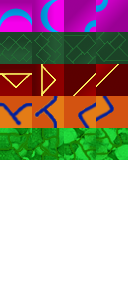
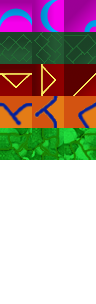
force unique components, fix border

Changed region(s): [[0.0, 0.0, 1.0, 0.5329], [0.0, 0.0296, 0.125, 0.0888]]

diff --git a/src/Level.cpp b/src/Level.cpp
@@ -85,12 +85,15 @@ void Level::_loadTiles() {
 	bgTiles[TILE_UPPER_RIGHT].setTexture(*borderTexture);
 	bgTiles[TILE_UPPER_RIGHT].setTextureRect(sf::IntRect(2 * TILE_SIZE + TILE_SIZE, b, -TILE_SIZE, TILE_SIZE));
 
+	// TILE_UPPER_LEFT x-mirrored and y-mirrored
 	bgTiles[TILE_LOWER_RIGHT].setTexture(*borderTexture);
-	bgTiles[TILE_LOWER_RIGHT].setTextureRect(sf::IntRect(3 * TILE_SIZE, b, TILE_SIZE, TILE_SIZE));
+	bgTiles[TILE_LOWER_RIGHT].setTextureRect(sf::IntRect(
+				2 * TILE_SIZE + TILE_SIZE, 
+				b + TILE_SIZE, -TILE_SIZE, -TILE_SIZE));
 
-	// TILE_LOWER_RIGHT x-mirrored
+	// TILE_UPPER_LEFT y-mirrored
 	bgTiles[TILE_LOWER_LEFT].setTexture(*borderTexture);
-	bgTiles[TILE_LOWER_LEFT].setTextureRect(sf::IntRect(3 * TILE_SIZE + TILE_SIZE, b, -TILE_SIZE, TILE_SIZE));
+	bgTiles[TILE_LOWER_LEFT].setTextureRect(sf::IntRect(2 * TILE_SIZE, b + TILE_SIZE, TILE_SIZE, -TILE_SIZE));
 
 	// Set angles' position once and for all
 	bgTiles[TILE_REGULAR].setPosition(TILE_SIZE, TILE_SIZE);

diff --git a/src/Enemy.cpp b/src/Enemy.cpp
@@ -33,13 +33,11 @@ Enemy::Enemy(sf::Vector2f pos, unsigned short id, float speed, const Game::Attac
 	dashClock = addComponent(new Game::Clock(this));
 	alienSprite = addComponent(new Game::AlienSprite(this));
 	addComponent(new Game::Scored(this, id * 100));
-	addComponent(new Game::Shooting(this, attack));
 	movingAnimator = addComponent(new Game::MovingAnimator(this));
 	addComponent(new Game::Killable(this, [this] () {
 		// on kill
 		Game::cache.playSound(get<Game::Sounded>()->getSoundFile(Game::Sounds::DEATH));
 	}));
-	alienSprite = addComponent(new Game::AlienSprite(this));
 	shooting = addComponent(new Game::Shooting(this, attack));
 	sighted = addComponent(new Game::Sighted(this));
 

diff --git a/src/Component.hpp b/src/Component.hpp
@@ -12,6 +12,11 @@ protected:
 	Game::Entity *const owner;
 
 public:
+	/** If true, adding more than a component of this type to an Entity
+	 *  will raise a logic_error.
+	 */
+	static constexpr bool requiredUnique() { return true; }
+
 	explicit Component(Game::Entity *const owner) 
 		: owner(owner) {}
 

diff --git a/src/Entity.hpp b/src/Entity.hpp
@@ -30,6 +30,8 @@ public:
 
 	template<class T>
 	T* addComponent(T* comp) {
+		if (T::requiredUnique() && get<T>() != nullptr)
+			throw std::logic_error("Two components of the same type were added to this Entity!");
 		components.push_back(std::unique_ptr<Game::Component>(comp));
 		return comp;
 	}

diff --git a/src/Animated.hpp b/src/Animated.hpp
@@ -24,6 +24,8 @@ protected:
 	bool manualPosition = false;
 
 public:
+	static constexpr bool requiredUnique() { return false; }
+
 	explicit Animated(Game::Entity *const owner, const std::string& texture_name);
 	
 	/** Adds a new empty animation to this Animated and returns it */

diff --git a/src/Clock.hpp b/src/Clock.hpp
@@ -10,6 +10,8 @@ class Clock : public Game::Component {
 	sftools::Chronometer clock;
 
 public:
+	static constexpr bool requiredUnique() { return false; }
+
 	explicit Clock(Game::Entity *const owner)
 		: Game::Component(owner)
 	{}
